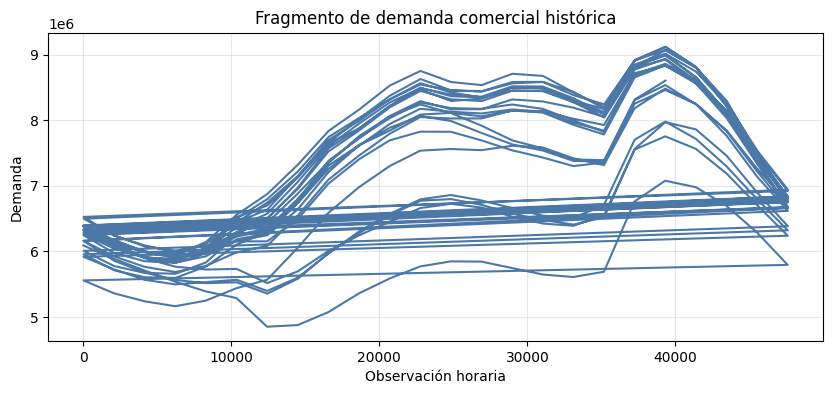
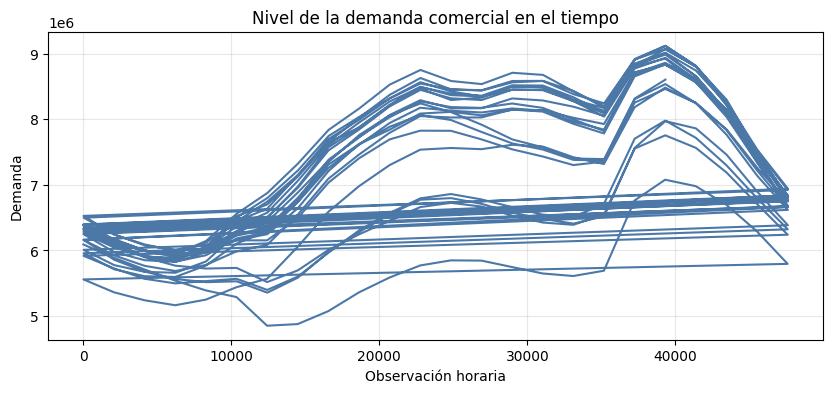
Restore demand clustering evidence and interpretation

diff --git a/implementation/predictiva/P206_clustering_demanda/tests/test_activity.py b/implementation/predictiva/P206_clustering_demanda/tests/test_activity.py
@@ -2,5 +2,5 @@ from pathlib import Path
 
 def test_01():
     submission=Path(__file__).resolve().parents[1] / "submission"
-    for filename in ["cluster-selection.csv", "demanda-comercial-clusters.csv", "demanda-comercial-dias.csv", "demanda-comercial-patrones-ejemplo.png", "demanda-comercial-perfiles.png", "perfil-recibido.csv"]:
+    for filename in ["cluster-selection.csv", "demanda-comercial-clusters.csv", "demanda-comercial-dias.csv", "demanda-comercial-patrones-ejemplo.png", "demanda-comercial-perfiles.png", "demanda-comercial.png", "perfil-recibido.csv"]:
         assert (submission / filename).is_file()
